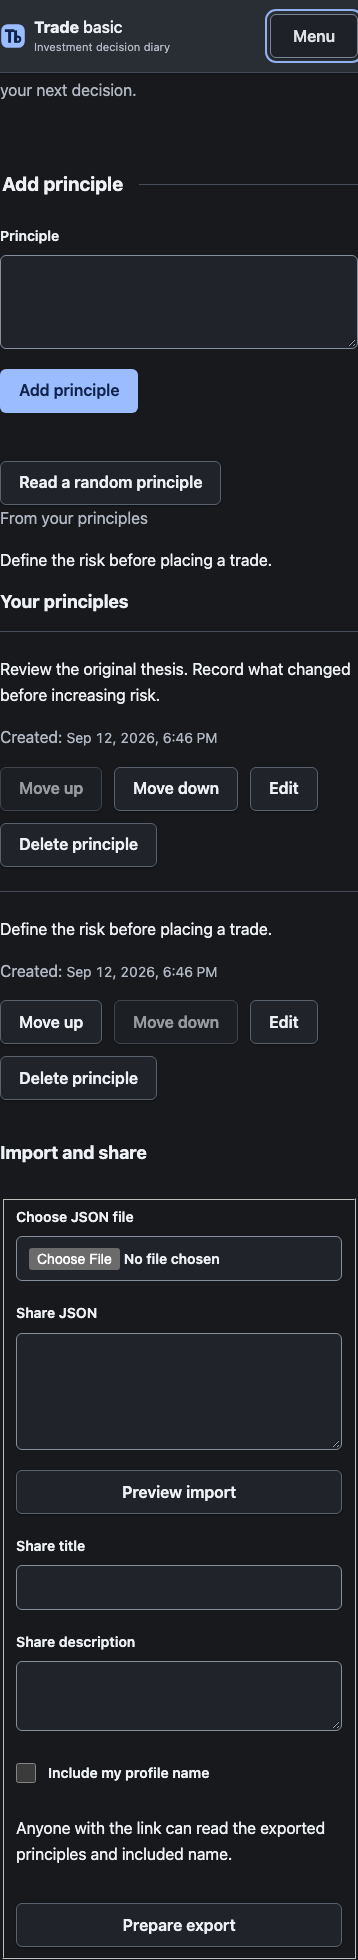
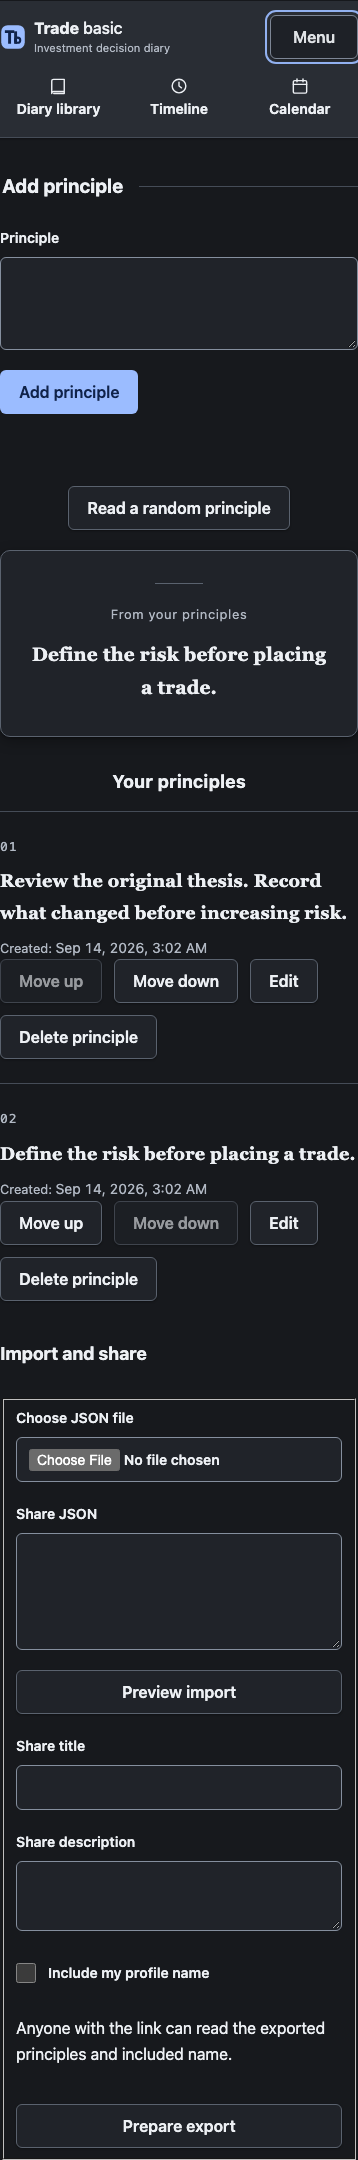
Restyle discipline page with a solemn reading layout
Serif token for principle sentences, centered 720px column, numbered
list, ceremonial draw card; refresh evidence screenshots.

diff --git a/apps/web/app/routes/discipline.tsx b/apps/web/app/routes/discipline.tsx
@@ -77,9 +77,9 @@ export default function Discipline() {
   if (!result.response.ok || !parsed.success) { setWriteError(apiFailure(result.error, t('failed'))); return; }
   setDrawn(parsed.data);
  }); }
- return <section className="plan-page"><h1>{c.title}</h1><p className="lede">{c.intro}</p>{error ? <><FailureNotice failure={error}/>{error.code?.startsWith('AUTH_') && <Link to={signInPath(location.pathname + location.search)}>{t('login')}</Link>}<button onClick={() => retry(value => value + 1)}>{t('retry')}</button></> : rows === null ? <p role="status">{t('loading')}</p> : <>
+ return <section className="plan-page discipline-page"><h1>{c.title}</h1><p className="lede">{c.intro}</p>{error ? <><FailureNotice failure={error}/>{error.code?.startsWith('AUTH_') && <Link to={signInPath(location.pathname + location.search)}>{t('login')}</Link>}<button onClick={() => retry(value => value + 1)}>{t('retry')}</button></> : rows === null ? <p role="status">{t('loading')}</p> : <>
   <form className="plan-form" onSubmit={save}><fieldset disabled={pending}><legend>{editing ? c.edit : c.create}</legend><label>{c.content}<textarea ref={input} aria-label={c.content} required maxLength={255} rows={3} value={content} onChange={event => { dirty.current = true; setContent(event.target.value); }}/></label><div className="actions" style={{ marginTop: 20 }}><button type="submit">{pending ? t('pending') : editing ? c.save : c.create}</button>{(editing || content) && <button className="secondary" type="button" onClick={clear}>{c.cancel}</button>}</div></fieldset></form>
-  <FailureNotice failure={writeError}/>{saved && <p role="status">{c.saved}</p>}<button className="secondary" disabled={pending} onClick={draw}>{c.draw}</button>{drawn && <div role="status"><p className="muted">{drawn.isCustom ? c.custom : c.fallback}</p><p style={{ overflowWrap: 'anywhere', whiteSpace: 'pre-wrap' }}>{drawn.content}</p></div>}
-  <h2>{c.list}</h2>{!rows.length ? <p>{c.empty}</p> : <ol className="plan-list">{rows.map((row, index) => <li key={row.id} data-testid="principle"><p id={`principle-${row.id}`} tabIndex={-1} style={{ overflowWrap: 'anywhere', whiteSpace: 'pre-wrap' }}>{row.content}</p><p className="muted">{c.created}: <time dateTime={row.createdAt}>{new Intl.DateTimeFormat(locale, { dateStyle: 'medium', timeStyle: 'short', timeZone: timezone }).format(new Date(row.createdAt))}</time></p><div className="actions"><button className="secondary" disabled={pending || editing !== null || dirty.current || index === 0} onClick={() => move(index, -1)}>{c.up}</button><button className="secondary" disabled={pending || editing !== null || dirty.current || index === rows.length - 1} onClick={() => move(index, 1)}>{c.down}</button><button className="secondary" disabled={pending || editing !== null || dirty.current} onClick={() => { setEditing(row.id); setContent(row.content); setWriteError(null); }}>{c.edit}</button><button className="secondary" disabled={pending || editing !== null || dirty.current} onClick={() => remove(row.id)}>{c.remove}</button></div></li>)}</ol>}
+  <FailureNotice failure={writeError}/>{saved && <p role="status">{c.saved}</p>}<button className="secondary discipline-draw-button" disabled={pending} onClick={draw}>{c.draw}</button>{drawn && <div role="status" className="discipline-draw"><p className="discipline-draw-label">{drawn.isCustom ? c.custom : c.fallback}</p><p className="discipline-sentence" style={{ overflowWrap: 'anywhere', whiteSpace: 'pre-wrap' }}>{drawn.content}</p></div>}
+  <h2>{c.list}</h2>{!rows.length ? <p>{c.empty}</p> : <ol className="discipline-list">{rows.map((row, index) => <li key={row.id} data-testid="principle"><p id={`principle-${row.id}`} tabIndex={-1} className="discipline-sentence" style={{ overflowWrap: 'anywhere', whiteSpace: 'pre-wrap' }}>{row.content}</p><p className="muted discipline-meta">{c.created}: <time dateTime={row.createdAt}>{new Intl.DateTimeFormat(locale, { dateStyle: 'medium', timeStyle: 'short', timeZone: timezone }).format(new Date(row.createdAt))}</time></p><div className="actions"><button className="secondary" disabled={pending || editing !== null || dirty.current || index === 0} onClick={() => move(index, -1)}>{c.up}</button><button className="secondary" disabled={pending || editing !== null || dirty.current || index === rows.length - 1} onClick={() => move(index, 1)}>{c.down}</button><button className="secondary" disabled={pending || editing !== null || dirty.current} onClick={() => { setEditing(row.id); setContent(row.content); setWriteError(null); }}>{c.edit}</button><button className="secondary" disabled={pending || editing !== null || dirty.current} onClick={() => remove(row.id)}>{c.remove}</button></div></li>)}</ol>}
  <DisciplineTransfer draftState={transferDirty} principles={rows} disabled={pending || editing !== null || dirty.current} onImported={() => { setDrawn(null); retry(value => value + 1); }}/></>}</section>;
 }

diff --git a/apps/web/app/trade-plan.css b/apps/web/app/trade-plan.css
@@ -116,3 +116,111 @@
     margin-top: var(--space-8);
   }
 }
+
+/* ---- Discipline page: a quieter, more formal reading surface ---- */
+
+.discipline-page {
+  max-width: 720px;
+}
+
+.discipline-page h1 {
+  margin-bottom: var(--space-3);
+  font-size: 1.75rem;
+  letter-spacing: 0.02em;
+  text-align: center;
+}
+
+.discipline-page > .lede {
+  margin-inline: auto;
+  text-align: center;
+}
+
+.discipline-page > h2 {
+  margin-top: var(--space-8);
+  letter-spacing: 0.02em;
+  text-align: center;
+}
+
+/* The principle text is the content of this page; give it a serif voice and real weight. */
+.discipline-sentence {
+  margin: 0;
+  font-family: var(--font-serif);
+  font-size: 1.25rem;
+  font-weight: 600;
+  letter-spacing: 0.01em;
+  line-height: 1.75;
+}
+
+.discipline-list {
+  padding: 0;
+  list-style: none;
+  counter-reset: principle;
+}
+
+.discipline-list li {
+  padding: var(--space-6) 0;
+  border-top: 1px solid var(--border);
+  counter-increment: principle;
+}
+
+.discipline-list li::before {
+  content: counter(principle, decimal-leading-zero);
+  display: block;
+  margin-bottom: var(--space-2);
+  color: var(--muted);
+  font-family: var(--font-mono);
+  font-size: 0.8125rem;
+  letter-spacing: 0.08em;
+}
+
+.discipline-meta {
+  margin: var(--space-2) 0 0;
+  font-size: 0.8125rem;
+}
+
+.discipline-draw-button {
+  display: flex;
+  width: fit-content;
+  margin: var(--space-6) auto 0;
+}
+
+/* The drawn principle: a centered reading card. */
+.discipline-draw {
+  margin: var(--space-5) 0 var(--space-6);
+  padding: var(--space-8) var(--space-6);
+  border: 1px solid var(--border-strong);
+  border-radius: var(--radius-card);
+  background: var(--surface);
+  box-shadow: var(--shadow-2);
+  text-align: center;
+}
+
+.discipline-draw::before {
+  content: '';
+  display: block;
+  width: 48px;
+  height: 1px;
+  margin: 0 auto var(--space-5);
+  background: var(--border-strong);
+}
+
+.discipline-draw-label {
+  margin: 0 0 var(--space-3);
+  color: var(--muted);
+  font-size: 0.8125rem;
+  letter-spacing: 0.05em;
+}
+
+.discipline-draw .discipline-sentence {
+  font-size: 1.375rem;
+}
+
+@media (max-width: 767px) {
+  .discipline-sentence {
+    font-size: 1.125rem;
+  }
+
+  .discipline-draw .discipline-sentence {
+    font-size: 1.1875rem;
+  }
+}

diff --git a/apps/web/app/styles.css b/apps/web/app/styles.css
@@ -35,6 +35,7 @@
   --shadow-1: 0 1px 2px rgb(18 22 30 / 0.05);
   --shadow-2: 0 1px 2px rgb(18 22 30 / 0.05), 0 4px 14px rgb(18 22 30 / 0.06);
   --font-mono: ui-monospace, SFMono-Regular, Menlo, Consolas, monospace;
+  --font-serif: Georgia, "Times New Roman", "Songti TC", "Noto Serif TC", "Noto Serif CJK TC", "SimSun", serif;
   --space-1: 4px;
   --space-2: 8px;
   --space-3: 12px;
